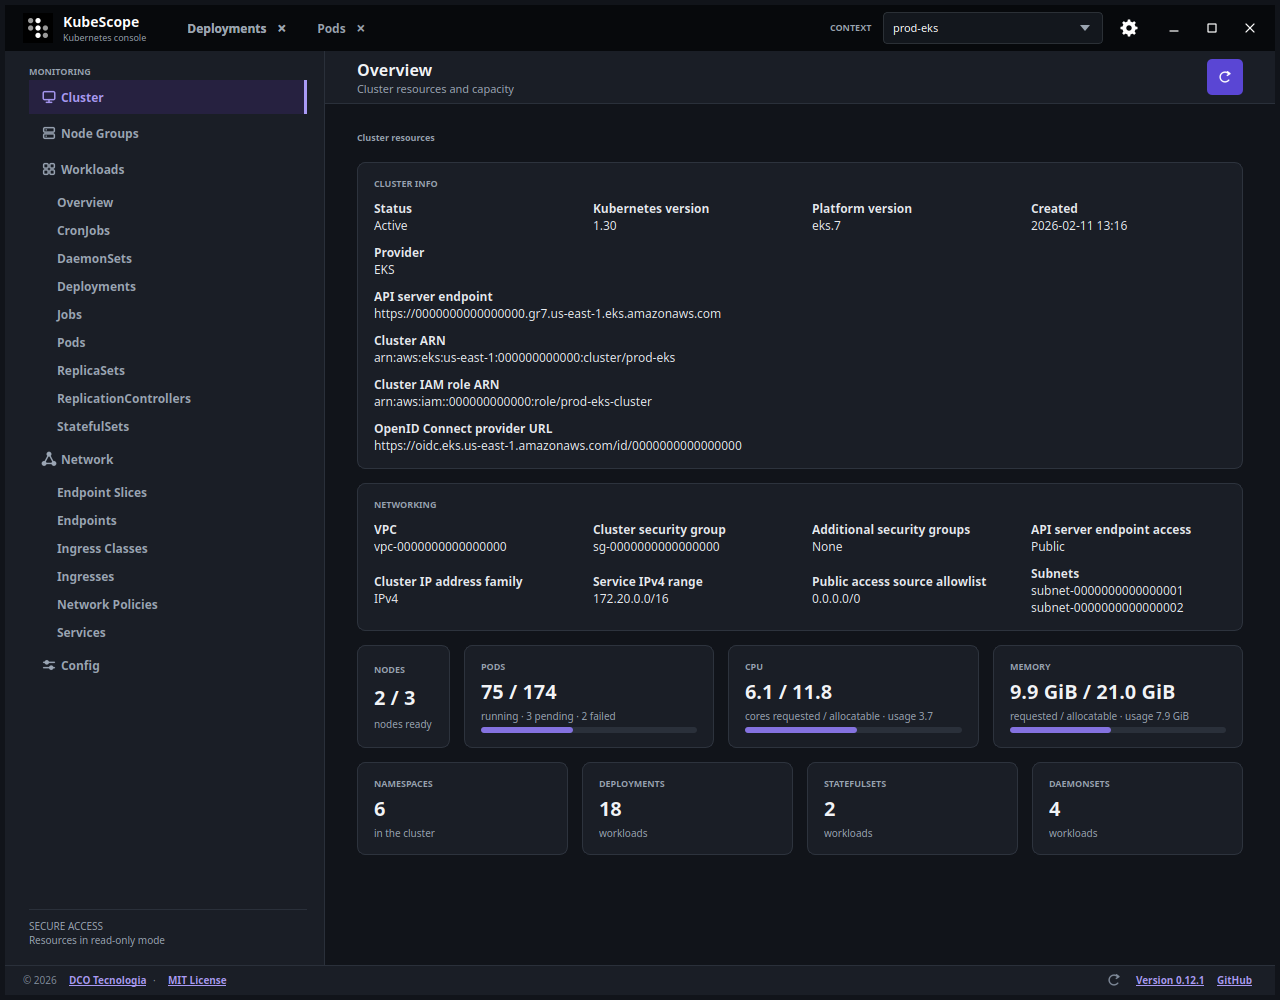
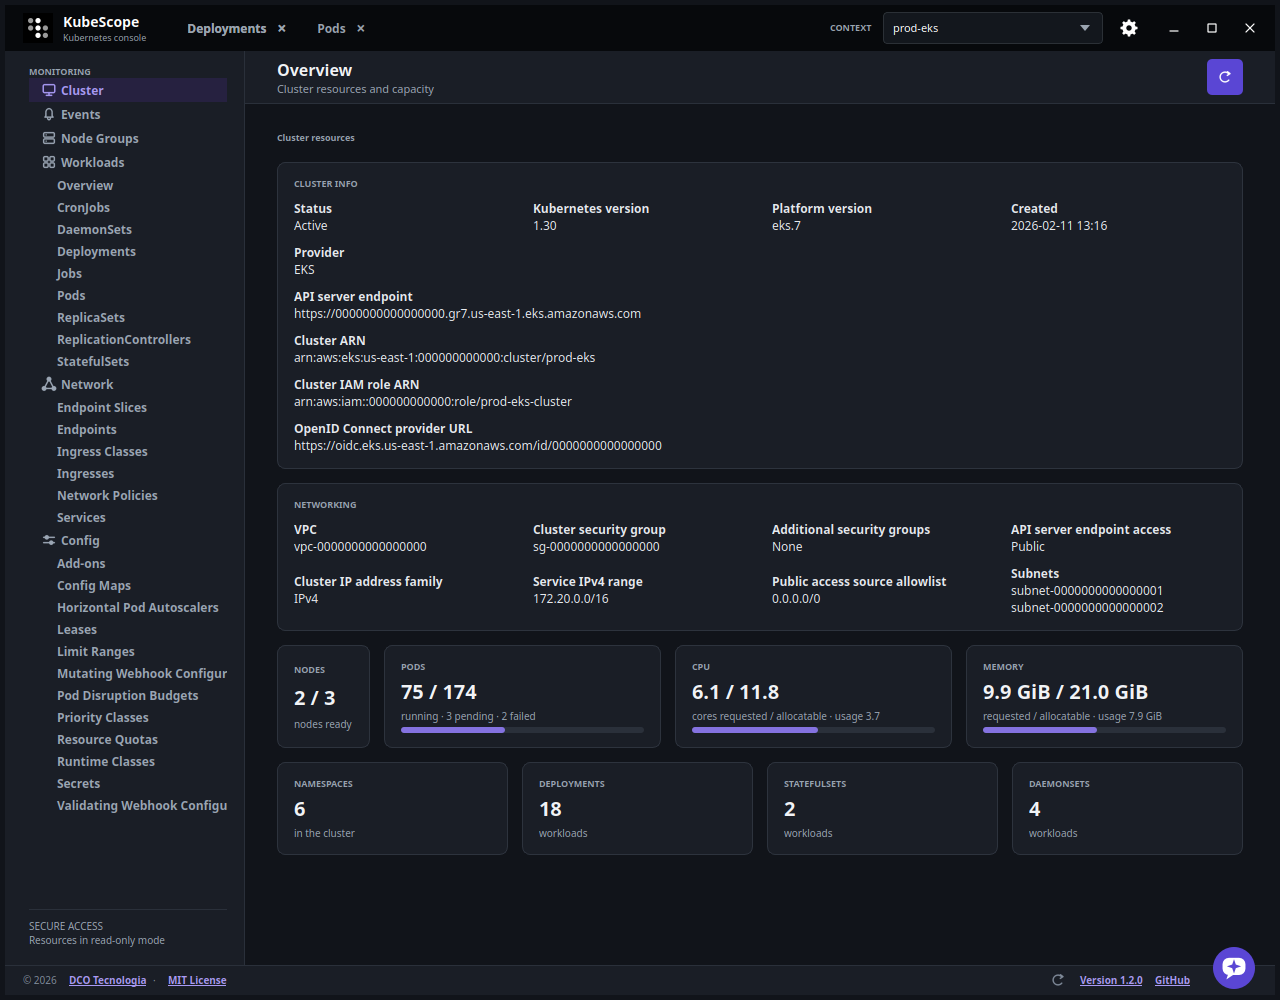
fix(tools): make the screenshots show every section of the side menu open
- open only the sections of the menu that are closed, since the menu starts open now
  and a click would close it, and open Config too
- give each entry of the side menu its whole name as a tip, for the long ones that
  do not fit
- regenerate the screenshot of the overview

diff --git a/tests/test_window_assistant.py b/tests/test_window_assistant.py
@@ -721,3 +721,51 @@ def test_every_section_of_the_menu_starts_open_and_what_is_closed_is_kept(
         again.submenu.maximumHeight() > 0 and again.network_submenu.maximumHeight() > 0
     )
     again.close()
+
+
+def test_each_entry_of_the_side_menu_carries_its_whole_name_as_a_tip(
+    monkeypatch,
+) -> None:
+    window, _messages = _open(monkeypatch)
+
+    for button in window._nav_views.values():
+        assert button.toolTip() == button.text() != ""
+    window._retranslate()
+    assert window.nav_pods.toolTip() == window.nav_pods.text()
+    window.close()
+
+
+def _preview_tool():
+    """The tool that takes the screenshots, which is not a package."""
+    import importlib.util
+    from pathlib import Path
+
+    path = Path(__file__).resolve().parent.parent / "tools" / "preview.py"
+    spec = importlib.util.spec_from_file_location("kubescope_preview", path)
+    assert spec is not None and spec.loader is not None
+    module = importlib.util.module_from_spec(spec)
+    spec.loader.exec_module(module)
+    return module
+
+
+def test_the_screenshot_opens_what_is_closed_and_leaves_open_what_is_open(
+    monkeypatch,
+) -> None:
+    from PySide6.QtWidgets import QApplication
+
+    preview = _preview_tool()
+    window, _messages = _open(monkeypatch)
+    sections = (window.submenu, window.network_submenu, window.config_submenu)
+    window.nav_config.click()  # one of them closed by the person
+    window._submenus[window.config_submenu].setCurrentTime(
+        window._submenus[window.config_submenu].duration()
+    )
+    assert window.config_submenu.maximumHeight() == 0
+    application = QApplication.instance()
+    assert application is not None
+
+    preview.open_menus(application, window)
+    preview.open_menus(application, window)  # again: nothing is closed
+
+    assert all(section.maximumHeight() > 0 for section in sections)
+    window.close()

diff --git a/src/kubescope/window.py b/src/kubescope/window.py
@@ -1017,6 +1017,7 @@ class WorkloadWindow(QMainWindow):
             animation.setDuration(180)
             animation.setEasingCurve(QEasingCurve.Type.InOutCubic)
             self._submenus[submenu] = animation
+        self._name_the_menu_entries()
         self._menu_names = {
             self.submenu: "workloads",
             self.network_submenu: "network",
@@ -5555,10 +5556,17 @@ class WorkloadWindow(QMainWindow):
             if self.table.horizontalHeaderItem(column) is None:
                 self.table.setHorizontalHeaderItem(column, QTableWidgetItem())
 
+    def _name_the_menu_entries(self) -> None:
+        """Give each entry of the side menu its whole name as a tip, since a
+        long one does not fit when the menu is narrow."""
+        for button in self._nav_views.values():
+            button.setToolTip(button.text())
+
     def _retranslate(self) -> None:
         """Re-apply every visible text after the translator changed."""
         self._restore_designed_headers()
         self.ui.retranslateUi(self)
+        self._name_the_menu_entries()
         self._show_access_note()
         self.assistant_dock.retranslate()
         self.search_case_button.setToolTip(self.tr("Match case"))

diff --git a/tools/preview.py b/tools/preview.py
@@ -217,10 +217,19 @@ def wait_until_idle(application: QApplication, main_window) -> None:
 
 
 def open_menus(application: QApplication, main_window) -> None:
-    """Slide out both menus and let the animation finish, for the
-    screenshot."""
-    main_window.nav_workloads.click()
-    main_window.nav_network.click()
+    """Make sure every section of the side menu is open and let the animation
+    finish, for the screenshot.
+
+    A section that is open already is left as it is, since clicking it
+    would close it.
+    """
+    for submenu, button in (
+        (main_window.submenu, main_window.nav_workloads),
+        (main_window.network_submenu, main_window.nav_network),
+        (main_window.config_submenu, main_window.nav_config),
+    ):
+        if submenu.maximumHeight() == 0:
+            button.click()
     deadline = time.monotonic() + 1
     while time.monotonic() < deadline:
         application.processEvents()
